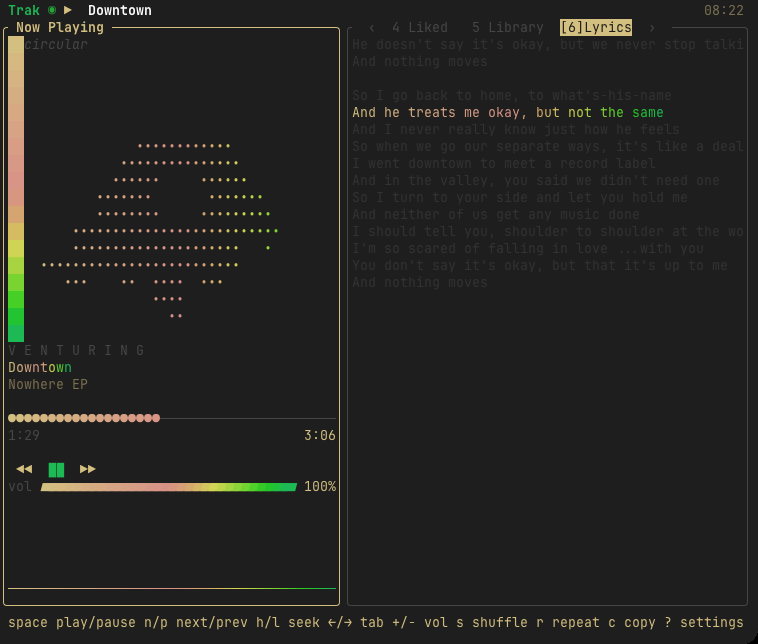
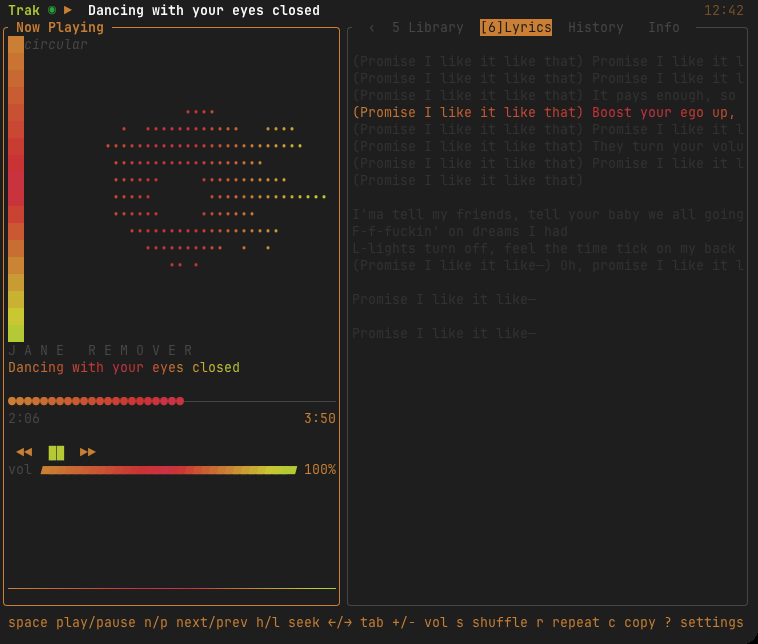
docs: re-record the demo GIF and stills on Dancing with your eyes closed

diff --git a/docs/images/NOTES.md b/docs/images/NOTES.md
@@ -7,7 +7,7 @@ are evidence, not decoration: each one is a claim a spike or a task made.
 | --- | --- |
 | `spike-1.4-cmux.png` | TODO 1.4: cmux renders the Kitty graphics protocol at full fidelity. Column 2's disc is perfectly round with thin grid lines; columns 3 and 4 (iTerm2, sixel) are empty. |
 | `spike-1.4-terminal.png` | TODO 1.4: Terminal.app renders only half-blocks and prints the other three protocols' escape sequences as visible text. |
-| `trak-demo.gif` | TODO 11.1: the README hero. 21 s in cmux on 2026-10-02, Version B against real Spotify: History with the cover, the Lyrics tab, `a` and `v` through waveform / circular / spectrum, `L`, `?`. Frames are `screencapture -l` of the cmux window, cropped to the terminal (no sidebar), deduplicated and quantised to 128 colours with PIL; 1.3 MB. |
+| `trak-demo.gif` | TODO 11.1: the README hero. 26 s in cmux on 2026-10-02, Version B against real Spotify playing Jane Remover's "Dancing with your eyes closed" (the owner's pick): History with the cover, `←` to the Lyrics tab, `a` and `v` through the visualizer styles, `L` (lyrics over the darkened cover), `?`. Frames are `screencapture -l` of the cmux window, cropped to the terminal (no sidebar), deduplicated and quantised to 128 colours with PIL; 2.2 MB. |
 | `dashboard.png`, `visualizer-*.png`, `lyrics-fullscreen.png`, `settings.png` | TODO 11.2: stills from the same session, same crop. Version A screenshots need a live login **[owner]**. |
 | `tui-3.3-wide.png` | TODO 3.3: the wide layout at 100×30 — header with status dot and clock, Now Playing with the art placeholder, interpolated progress bar, controls, volume meter, the tab strip, and the footer key hints. |
 
